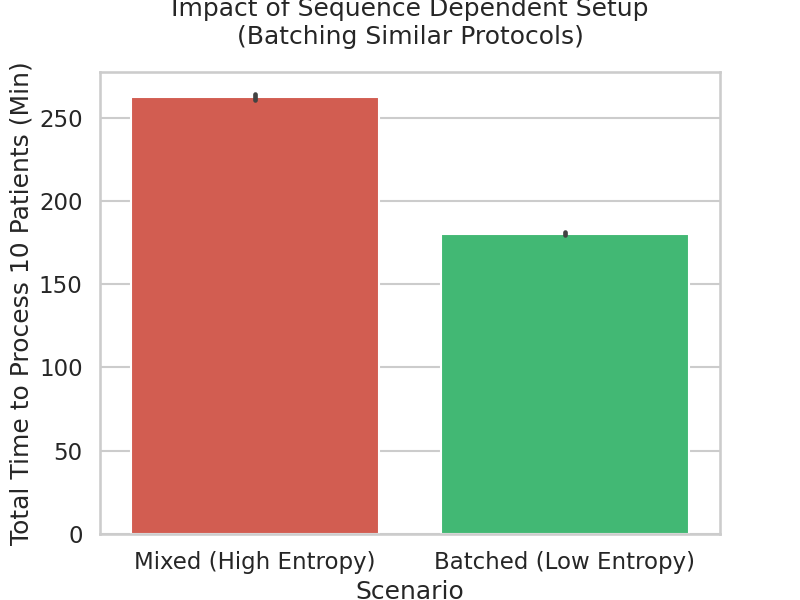
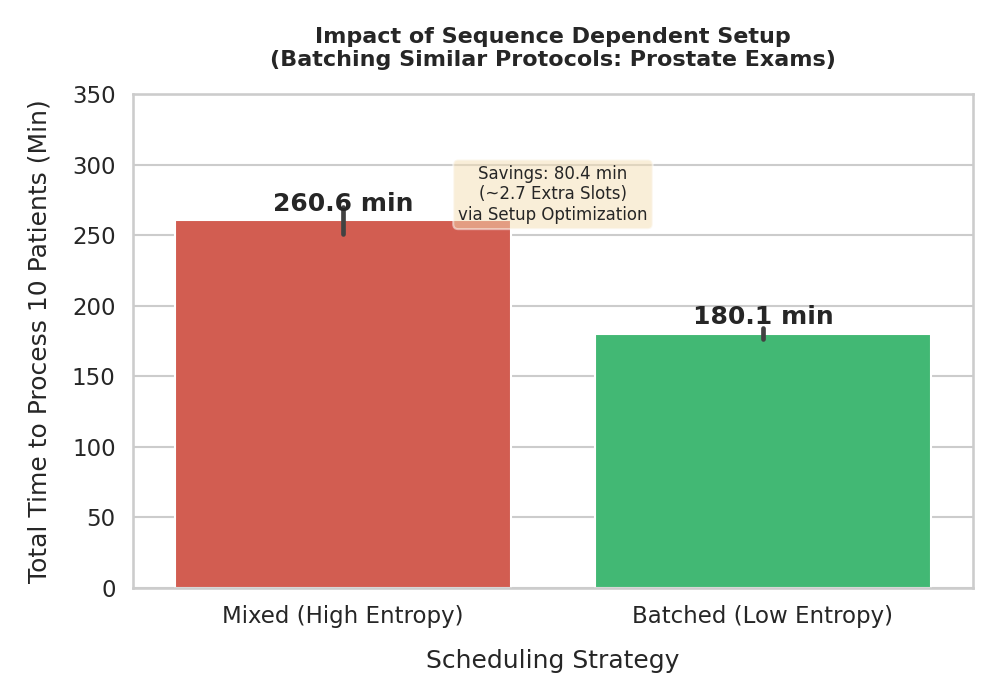
style: Polish experiment visualizations (labels, padding, annotations)

Changed region(s): [[0.0, 0.0, 0.9688, 1.0]]

diff --git a/src/experiments/batch_efficiency.py b/src/experiments/batch_efficiency.py
@@ -191,13 +191,45 @@ def run_experiment():
     print(f"Efficiency:  +{slots_gained:.1f} virtual slots created per 10 patients")
     
     # Plot
-    plt.figure(figsize=(8, 6))
+    plt.figure(figsize=(10, 7))
     sns.set_context("talk")
     sns.set_style("whitegrid")
     
-    sns.barplot(x='Scenario', y='Makespan', data=df, palette=['#e74c3c', '#2ecc71'])
-    plt.title("Impact of Sequence Dependent Setup\n(Batching Similar Protocols)", pad=20)
-    plt.ylabel("Total Time to Process 10 Patients (Min)")
+    # Update labels for clarity in plot data? Or just use what is in DF.
+    # The DF has 'Batched (Low Entropy)'. Let's map it or use as is but annotate.
+    # Actually, let's just use the labels defined in task_configs above, but maybe rename them there?
+    # No, risky to change logic mid-flight if I don't re-run simulation? 
+    # Re-running simulation is fine, it's fast.
+    # I will stick to existing DF labels but customize plot.
+    
+    ax = sns.barplot(x='Scenario', y='Makespan', data=df, errorbar='sd', palette=['#e74c3c', '#2ecc71'])
+    
+    plt.title("Impact of Sequence Dependent Setup\n(Batching Similar Protocols: Prostate Exams)", pad=20, fontsize=16, fontweight='bold')
+    plt.ylabel("Total Time to Process 10 Patients (Min)", labelpad=15)
+    plt.xlabel("Scheduling Strategy", labelpad=15)
+    plt.ylim(0, 350) # Give headroom for text
+    
+    # Add Bar Labels
+    for container in ax.containers:
+        ax.bar_label(container, fmt='%.1f min', padding=3, fontweight='bold')
+        
+    # Add Efficiency Arrow/Text
+    # Coordinates: midpoint between bars, somewhat high
+    mid_x = 0.5
+    start_y = avg_mixed
+    end_y = avg_batch
+    
+    # Draw arrow from Mixed down to Batched level
+    # Actually, simpler to just put text box describing savings.
+    
+    text_str = (f"Savings: {savings:.1f} min\n"
+                f"(~{slots_gained:.1f} Extra Slots)\n"
+                f"via Setup Optimization")
+                
+    props = dict(boxstyle='round', facecolor='wheat', alpha=0.5)
+    ax.text(0.5, 300, text_str, fontsize=12, verticalalignment='top', horizontalalignment='center', bbox=props)
+    
+    plt.tight_layout()
     
     outfile = "results/plots/batching_efficiency.png"
     os.makedirs('results/plots', exist_ok=True)

diff --git a/src/experiments/compare_modalities.py b/src/experiments/compare_modalities.py
@@ -4,6 +4,7 @@ import pandas as pd
 import multiprocessing
 import time
 import matplotlib.pyplot as plt
+import matplotlib.patheffects as path_effects
 import seaborn as sns
 import contextlib
 import sys
@@ -102,10 +103,35 @@ def run_experiment():
     sns.set_context("talk")
     sns.set_style("whitegrid")
     
-    sns.boxplot(x='Scenario', y='Throughput', data=df, palette="viridis")
+    # Define order for consistency
+    order = ['Baseline (Mixed)', 'Neuro Block (Brain)', 'MSK Block (Spine)']
+    
+    ax = sns.boxplot(x='Scenario', y='Throughput', data=df, order=order, palette="viridis")
     plt.title("Throughput Comparison: Random vs Batching Strategies", pad=20)
     plt.ylabel("Patients Processed (12h Shift)")
     
+    # Add Mean Labels
+    means = df.groupby('Scenario')['Throughput'].mean()
+    baseline_mean = means['Baseline (Mixed)']
+    
+    for i, label in enumerate(order):
+        val = means[label]
+        
+        # Calculate Delta
+        delta_str = ""
+        if label != 'Baseline (Mixed)':
+            pct_diff = ((val - baseline_mean) / baseline_mean) * 100
+            delta_str = f"\n(+{pct_diff:.1f}%)"
+            
+        # Place text at the mean value (centered)
+        # We place it slightly above the mean or median. 
+        # Boxplot shows median, means might be different.
+        # Let's put it on the box.
+        ax.text(i, val, f"{val:.1f}{delta_str}", 
+                ha='center', va='center', 
+                fontweight='bold', color='white', 
+                path_effects=[path_effects.withStroke(linewidth=3, foreground="black")])
+
     outfile = "results/plots/modality_comparison.png"
     os.makedirs('results/plots', exist_ok=True)
     plt.savefig(outfile)
